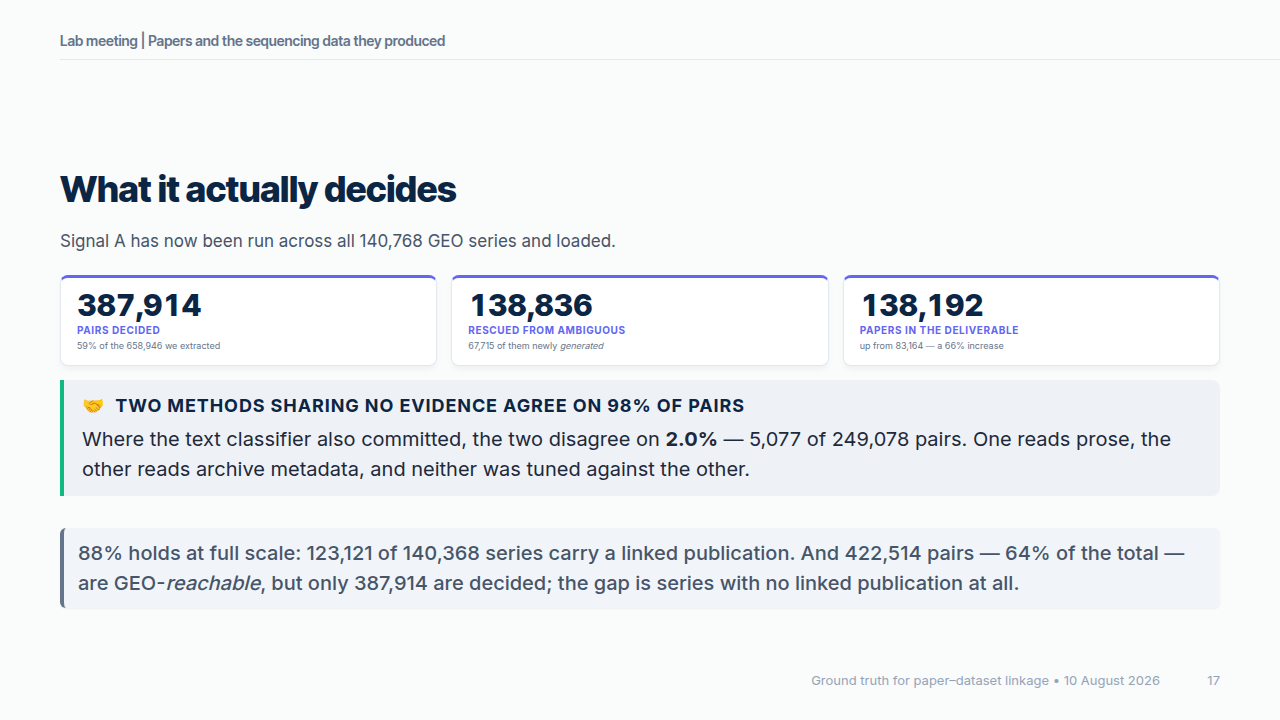
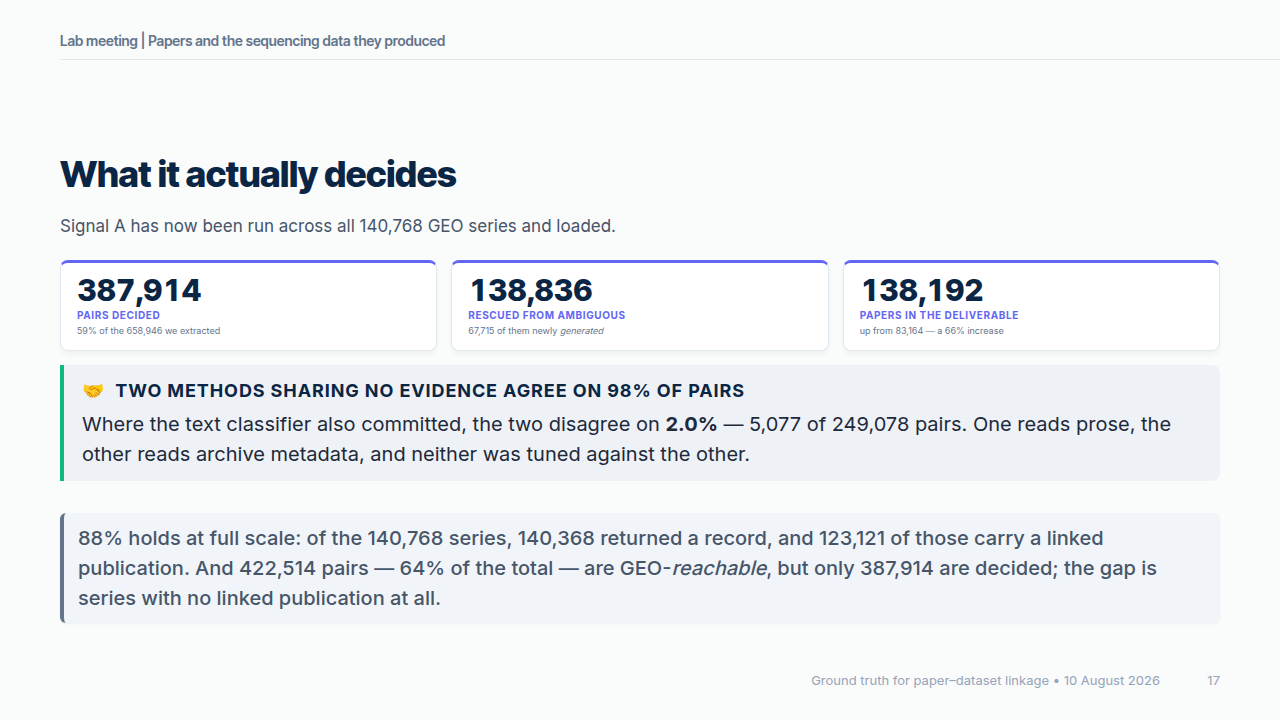
Reconcile the GEO series counts and record the finished richness rebuild
Slide 17 showed 140,768 series in the lead and 140,368 in the note, which
reads as a typo. Both are right: eutils returned no record for 400 of the
series, so the coverage denominator is smaller than the total. The note now
says so rather than leaving a reader to reconcile it mid-talk.

Slide 19 listed the BioSample richness rebuild as queued; it finished after
the deck was written. The same 235,702 projects move from median 1 sample
group and entropy 0.0 to median 4 and 0.393, which is the point of the
callout - the old measure had nothing to reconstruct.

Claude-Session: https://claude.ai/code/session_0132So3vgYGTUnnnkLxtwVmc

Changed region(s): [[0.0312, 0.2139, 0.9375, 0.4889], [0.0625, 0.5194, 0.9375, 0.6722], [0.0625, 0.7333, 0.9062, 0.8556]]

diff --git a/paper_sra_linkage_Aug_2026/slides.html b/paper_sra_linkage_Aug_2026/slides.html
@@ -200,7 +200,7 @@
 <h1 id="what-it-actually-decides">What it actually decides</h1>
 <p>Signal A has now been run across all 140,768 GEO series and loaded.</p>
 <div class="stats accent-indigo" style="--cols:3"><div class="stat"><span class="stat-value">387,914</span><span class="stat-label">pairs decided</span><span class="stat-note">59% of the 658,946 we extracted</span></div><div class="stat"><span class="stat-value">138,836</span><span class="stat-label">rescued from ambiguous</span><span class="stat-note">67,715 of them newly <em>generated</em></span></div><div class="stat"><span class="stat-value">138,192</span><span class="stat-label">papers in the deliverable</span><span class="stat-note">up from 83,164 — a 66% increase</span></div></div><div class="callout accent-emerald"><div class="callout-title"><span>🤝</span><span>Two methods sharing no evidence agree on 98% of pairs</span></div><div class="callout-body"><p>Where the text classifier also committed, the two disagree on <strong>2.0%</strong> — 5,077 of 249,078 pairs. One reads prose, the other reads archive metadata, and neither was tuned against the other.</p>
-</div></div><div class="note accent-slate"><p>88% holds at full scale: 123,121 of 140,368 series carry a linked publication. And 422,514 pairs — 64% of the total — are GEO-<em>reachable</em>, but only 387,914 are decided; the gap is series with no linked publication at all.</p>
+</div></div><div class="note accent-slate"><p>88% holds at full scale: of the 140,768 series, 140,368 returned a record, and 123,121 of those carry a linked publication. And 422,514 pairs — 64% of the total — are GEO-<em>reachable</em>, but only 387,914 are decided; the gap is series with no linked publication at all.</p>
 </div><footer>Ground truth for paper–dataset linkage • 10 August 2026</footer>
 </section>
 </foreignObject></svg><svg data-marpit-svg="" viewBox="0 0 1280 720"><foreignObject width="1280" height="720"><section id="18" data-paginate="true" data-header="Lab meeting | Papers and the sequencing data they produced" data-footer="Ground truth for paper–dataset linkage • 10 August 2026" data-class="compact middle" data-theme="deckkit" lang="en-US" class="compact middle" data-marpit-pagination="18" style="--paginate:true;--header:Lab meeting | Papers and the sequencing data they produced;--footer:Ground truth for paper–dataset linkage • 10 August 2026;--class:compact middle;--theme:deckkit;" data-marpit-pagination-total="20" data-size="16:9">
@@ -216,7 +216,7 @@
 
 <h1 id="where-we-are-and-what-is-next">Where we are, and what is next</h1>
 <p>The table as it stands today — before the GEO signal is merged in — and what is queued behind it.</p>
-<div class="stats accent-emerald tight" style="--cols:3"><div class="stat"><span class="stat-value">83,164</span><span class="stat-label">papers</span><span class="stat-note">linked to data they generated</span></div><div class="stat"><span class="stat-value">95,831</span><span class="stat-label">datasets</span><span class="stat-note">attributed to a generating paper</span></div><div class="stat"><span class="stat-value">1</span><span class="stat-label">median datasets per paper</span><span class="stat-note">most papers produce exactly one</span></div></div><div class="timeline"><div class="track accent-indigo"><div class="track-header"><div class="track-title">Queued behind it</div></div><div class="track-lane"><div class="node node-lg" style="--x:12%"><div class="node-dot"></div><div class="node-info">Done<span class="node-value">140,768 series</span><span class="node-note">GEO→PMID across<br />every GEO series</span></div></div><div class="node node-md" style="--x:50%"><div class="node-dot"></div><div class="node-info">Next<span class="node-value">BioSample</span><span class="node-note">Re-measure richness<br />from sample records</span></div></div><div class="node node-open" style="--x:88%"><div class="node-dot"></div><div class="node-info">Then<span class="node-value">Experiment</span><span class="node-note">Reconstruct metadata<br />from the paper alone</span></div></div></div></div></div><div class="callout accent-amber callout-slim"><div class="callout-title"><span>🔬</span><span>Why richness gets re-measured</span></div><div class="callout-body"><p>The reconstruction experiment needs datasets whose metadata is worth hiding. We measured that on sequencing-<strong>run</strong> records — median <strong>1</strong> sample group, attribute entropy <strong>0.0</strong>, i.e. no variation to reconstruct. Run records describe machines; experimental design lives in the sample records.</p>
+<div class="stats accent-emerald tight" style="--cols:3"><div class="stat"><span class="stat-value">83,164</span><span class="stat-label">papers</span><span class="stat-note">linked to data they generated</span></div><div class="stat"><span class="stat-value">95,831</span><span class="stat-label">datasets</span><span class="stat-note">attributed to a generating paper</span></div><div class="stat"><span class="stat-value">1</span><span class="stat-label">median datasets per paper</span><span class="stat-note">most papers produce exactly one</span></div></div><div class="timeline"><div class="track accent-indigo"><div class="track-header"><div class="track-title">Queued behind it</div></div><div class="track-lane"><div class="node node-lg" style="--x:12%"><div class="node-dot"></div><div class="node-info">Done<span class="node-value">140,768 series</span><span class="node-note">GEO→PMID across<br />every GEO series</span></div></div><div class="node node-lg" style="--x:50%"><div class="node-dot"></div><div class="node-info">Done<span class="node-value">BioSample</span><span class="node-note">Richness re-measured<br />from sample records</span></div></div><div class="node node-open" style="--x:88%"><div class="node-dot"></div><div class="node-info">Next<span class="node-value">Experiment</span><span class="node-note">Reconstruct metadata<br />from the paper alone</span></div></div></div></div></div><div class="callout accent-amber callout-slim"><div class="callout-title"><span>🔬</span><span>Richness had to be re-measured, and now works</span></div><div class="callout-body"><p>The experiment needs datasets whose metadata is worth hiding. Measured on sequencing-<strong>run</strong> records: median <strong>1</strong> sample group, entropy <strong>0.0</strong> — nothing to reconstruct. Run records describe machines; design lives in the sample records. Re-measured there, the same 235,702 projects give median <strong>4</strong> groups and entropy <strong>0.393</strong>.</p>
 </div></div><footer>Ground truth for paper–dataset linkage • 10 August 2026</footer>
 </section>
 </foreignObject></svg><svg data-marpit-svg="" viewBox="0 0 1280 720"><foreignObject width="1280" height="720"><section id="20" data-paginate="true" data-header="Lab meeting | Papers and the sequencing data they produced" data-footer="Ground truth for paper–dataset linkage • 10 August 2026" data-class="compact middle" data-theme="deckkit" lang="en-US" class="compact middle" data-marpit-pagination="20" style="--paginate:true;--header:Lab meeting | Papers and the sequencing data they produced;--footer:Ground truth for paper–dataset linkage • 10 August 2026;--class:compact middle;--theme:deckkit;" data-marpit-pagination-total="20" data-size="16:9">

diff --git a/paper_sra_linkage_Aug_2026/slides.md b/paper_sra_linkage_Aug_2026/slides.md
@@ -449,7 +449,7 @@ Where the text classifier also committed, the two disagree on **2.0%** — 5,077
 :::
 
 ::: note accent=slate
-88% holds at full scale: 123,121 of 140,368 series carry a linked publication. And 422,514 pairs — 64% of the total — are GEO-*reachable*, but only 387,914 are decided; the gap is series with no linked publication at all.
+88% holds at full scale: of the 140,768 series, 140,368 returned a record, and 123,121 of those carry a linked publication. And 422,514 pairs — 64% of the total — are GEO-*reachable*, but only 387,914 are decided; the gap is series with no linked publication at all.
 :::
 
 ---
@@ -490,12 +490,12 @@ The table as it stands today — before the GEO signal is merged in — and what
 ```timeline
 track: Queued behind it | accent=indigo
 node: 12% | Done | 140,768 series | GEO→PMID across // every GEO series | lg
-node: 50% | Next | BioSample | Re-measure richness // from sample records | md
-node: 88% | Then | Experiment | Reconstruct metadata // from the paper alone | open
+node: 50% | Done | BioSample | Richness re-measured // from sample records | lg
+node: 88% | Next | Experiment | Reconstruct metadata // from the paper alone | open
 ```
 
-::: callout title="Why richness gets re-measured" icon="🔬" accent=amber slim
-The reconstruction experiment needs datasets whose metadata is worth hiding. We measured that on sequencing-**run** records — median **1** sample group, attribute entropy **0.0**, i.e. no variation to reconstruct. Run records describe machines; experimental design lives in the sample records.
+::: callout title="Richness had to be re-measured, and now works" icon="🔬" accent=amber slim
+The experiment needs datasets whose metadata is worth hiding. Measured on sequencing-**run** records: median **1** sample group, entropy **0.0** — nothing to reconstruct. Run records describe machines; design lives in the sample records. Re-measured there, the same 235,702 projects give median **4** groups and entropy **0.393**.
 :::
 
 ---
